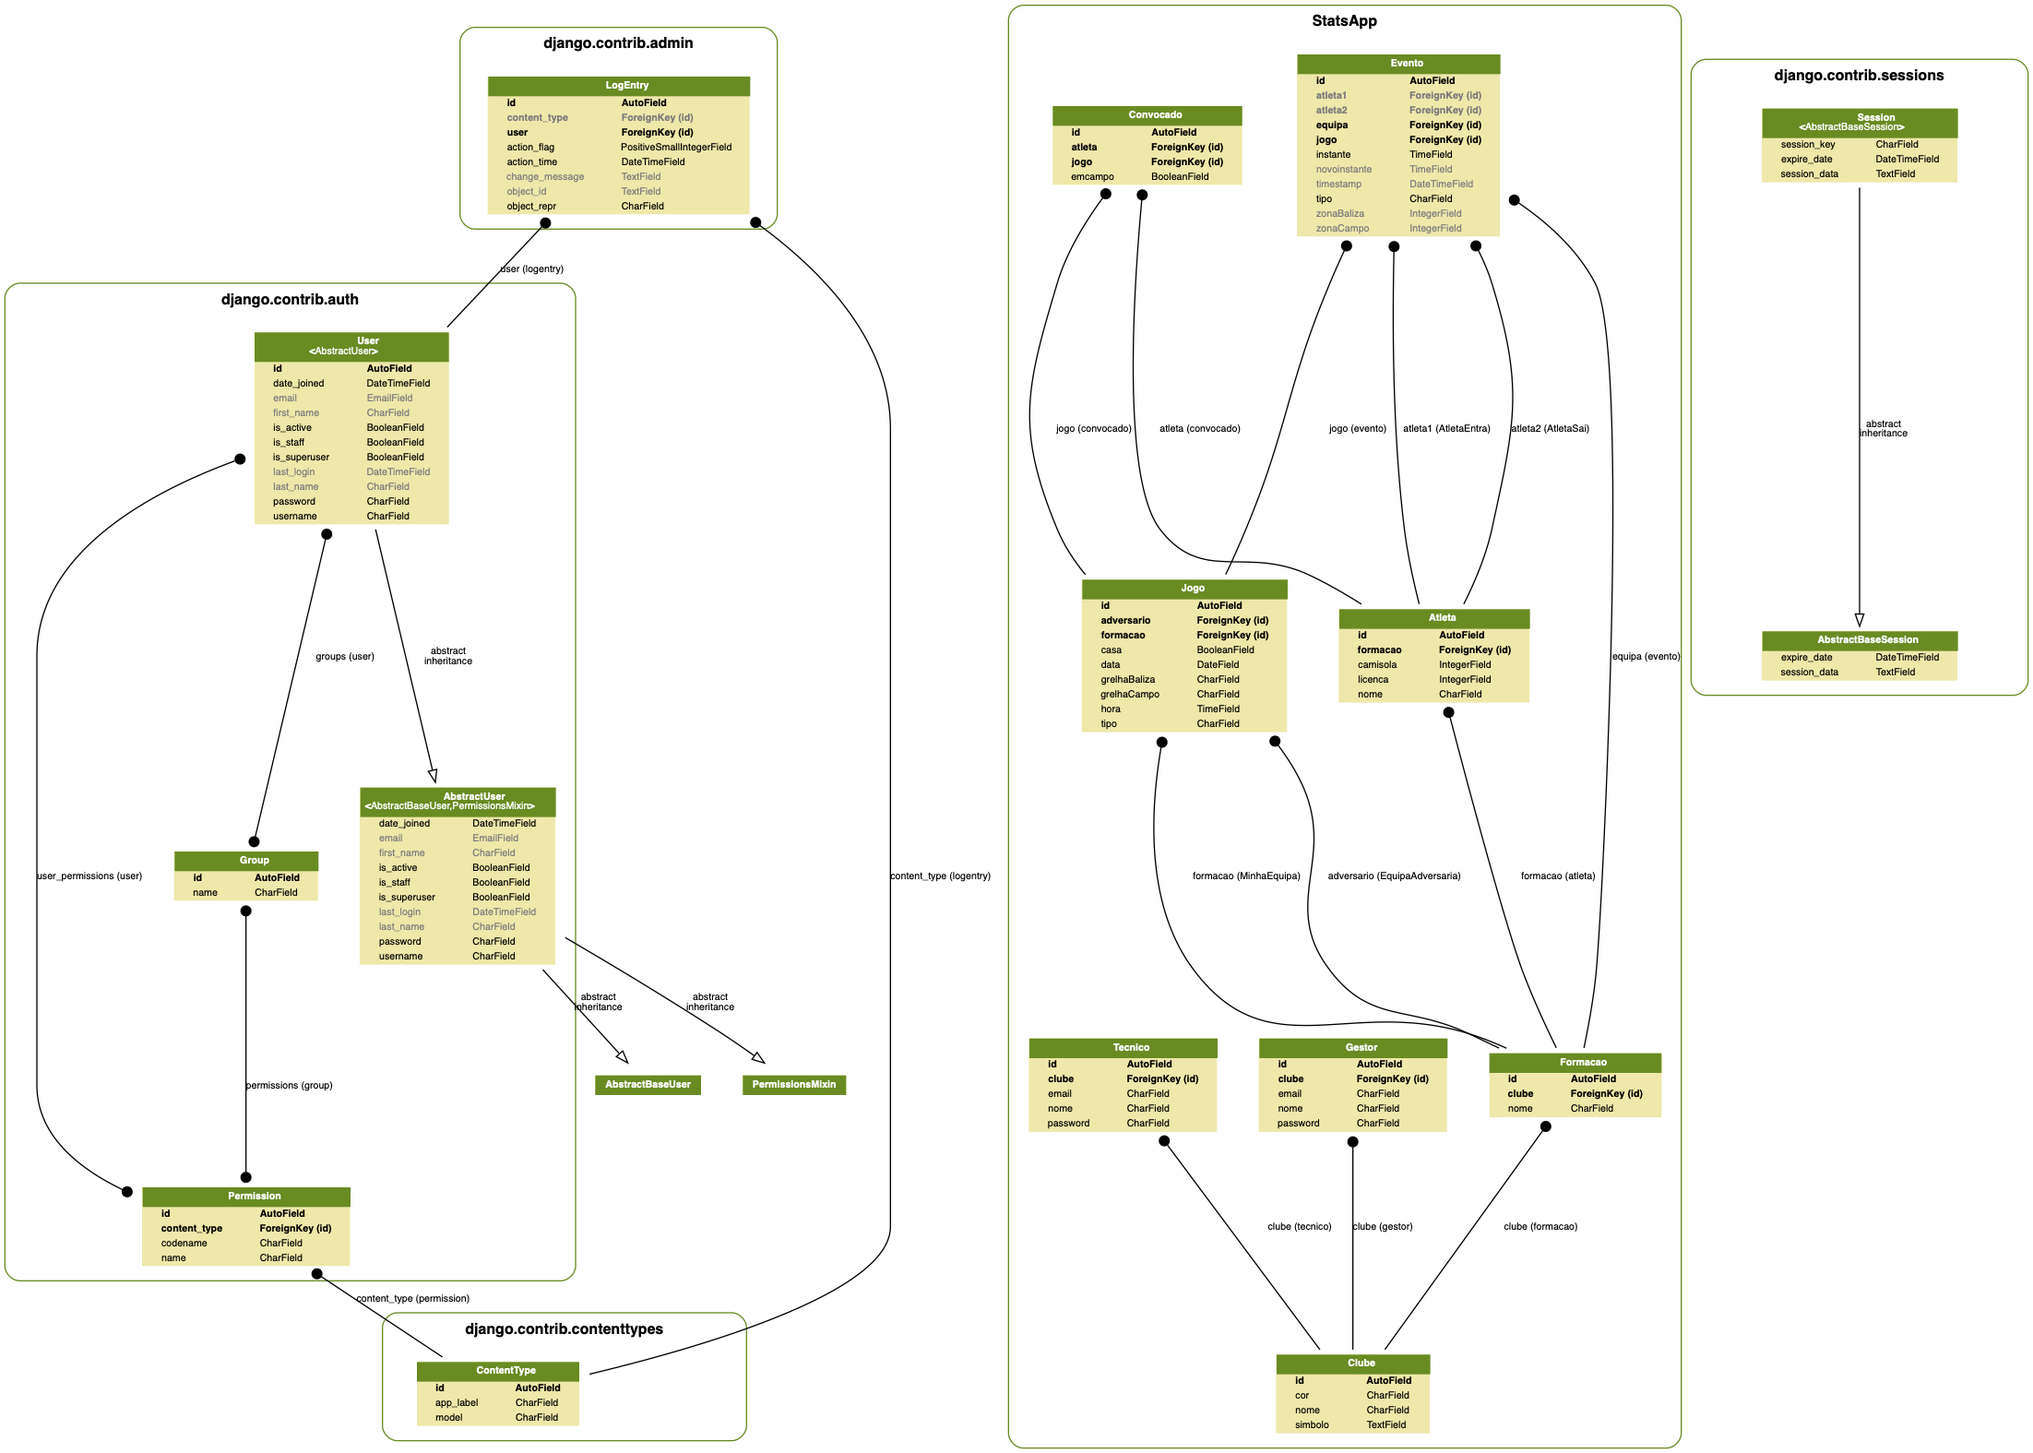
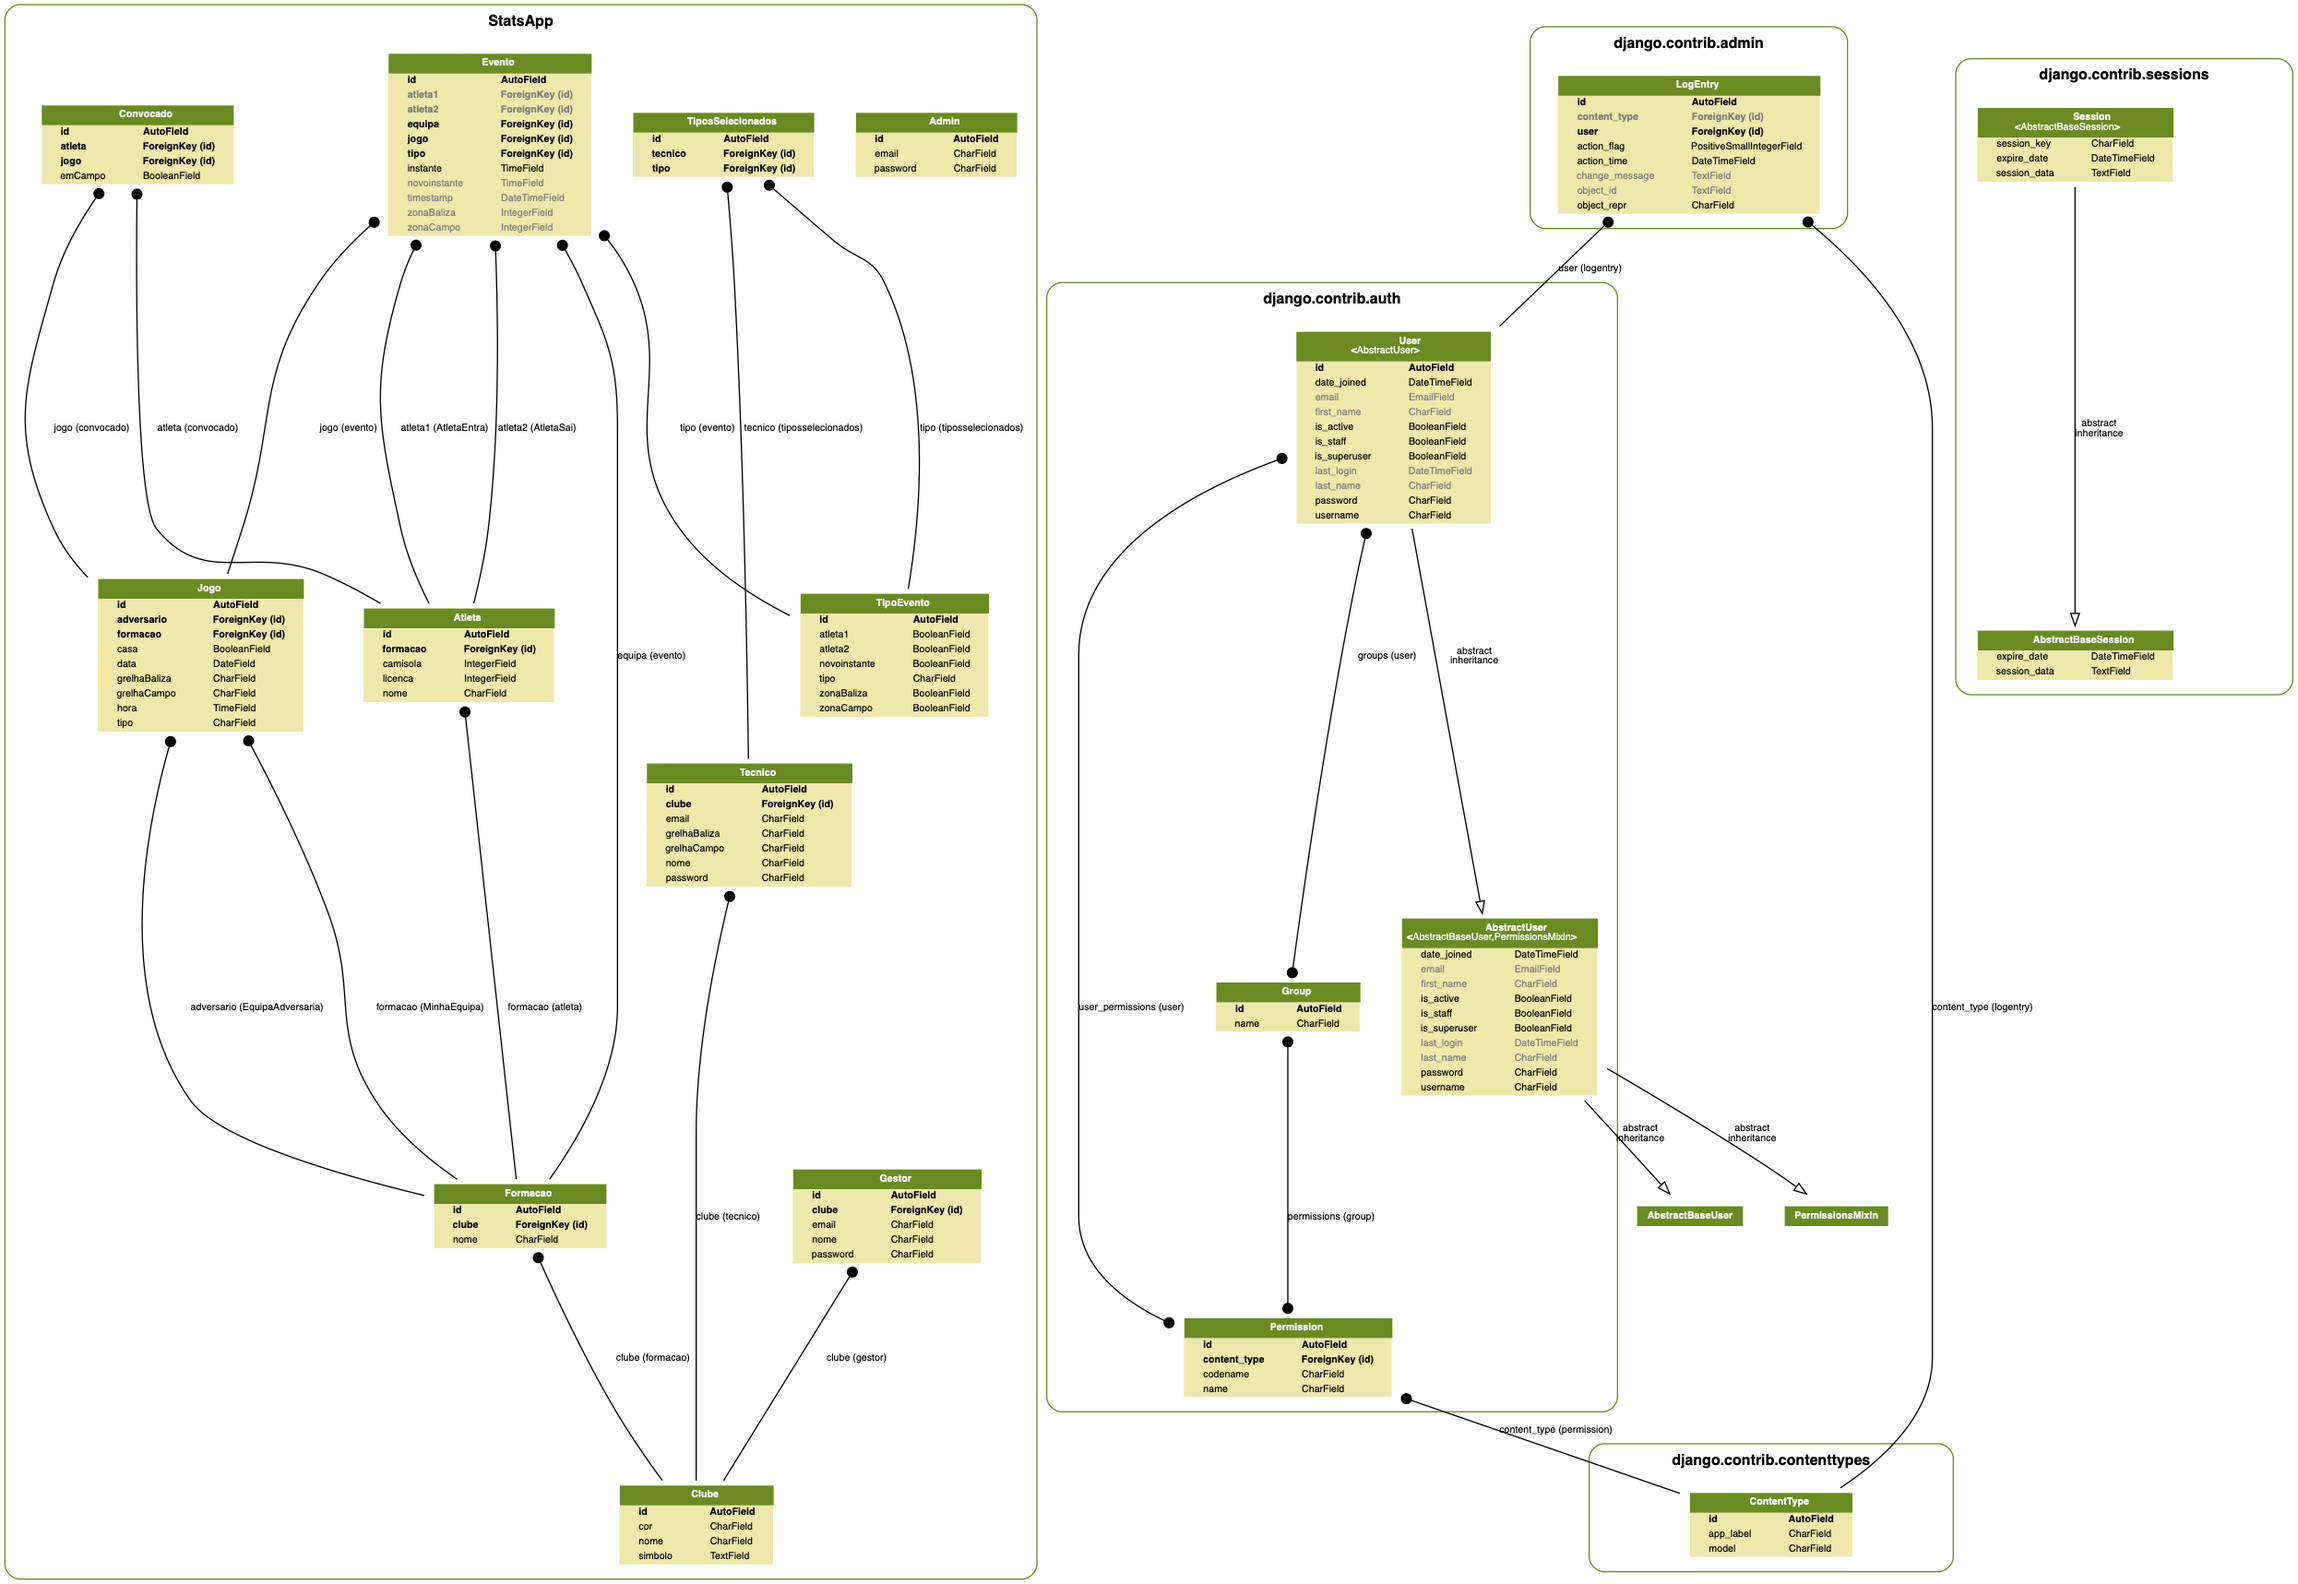
novo diagrama de classes

diff --git a/projeto/HoqueiStats/StatsApp/migrations/0002_auto_20190410_1744.py b/projeto/HoqueiStats/StatsApp/migrations/0002_auto_20190410_1744.py
@@ -1,0 +1,64 @@
+# Generated by Django 2.2 on 2019-04-10 17:44
+
+from django.db import migrations, models
+import django.db.models.deletion
+
+
+class Migration(migrations.Migration):
+
+    dependencies = [
+        ('StatsApp', '0001_initial'),
+    ]
+
+    operations = [
+        migrations.CreateModel(
+            name='Admin',
+            fields=[
+                ('id', models.AutoField(auto_created=True, primary_key=True, serialize=False, verbose_name='ID')),
+                ('email', models.CharField(max_length=200)),
+                ('password', models.CharField(max_length=200)),
+            ],
+        ),
+        migrations.CreateModel(
+            name='TipoEvento',
+            fields=[
+                ('id', models.AutoField(auto_created=True, primary_key=True, serialize=False, verbose_name='ID')),
+                ('tipo', models.CharField(max_length=200)),
+                ('atleta1', models.BooleanField(default=True)),
+                ('atleta2', models.BooleanField(default=True)),
+                ('zonaCampo', models.BooleanField(default=True)),
+                ('zonaBaliza', models.BooleanField(default=True)),
+                ('novoinstante', models.BooleanField(default=True)),
+            ],
+        ),
+        migrations.RenameField(
+            model_name='convocado',
+            old_name='emcampo',
+            new_name='emCampo',
+        ),
+        migrations.AddField(
+            model_name='tecnico',
+            name='grelhaBaliza',
+            field=models.CharField(default='aa', max_length=5),
+            preserve_default=False,
+        ),
+        migrations.AddField(
+            model_name='tecnico',
+            name='grelhaCampo',
+            field=models.CharField(default='aa', max_length=5),
+            preserve_default=False,
+        ),
+        migrations.AlterField(
+            model_name='evento',
+            name='tipo',
+            field=models.ForeignKey(on_delete=django.db.models.deletion.CASCADE, to='StatsApp.TipoEvento'),
+        ),
+        migrations.CreateModel(
+            name='TiposSelecionados',
+            fields=[
+                ('id', models.AutoField(auto_created=True, primary_key=True, serialize=False, verbose_name='ID')),
+                ('tecnico', models.ForeignKey(on_delete=django.db.models.deletion.CASCADE, to='StatsApp.Tecnico')),
+                ('tipo', models.ForeignKey(on_delete=django.db.models.deletion.CASCADE, to='StatsApp.TipoEvento')),
+            ],
+        ),
+    ]
